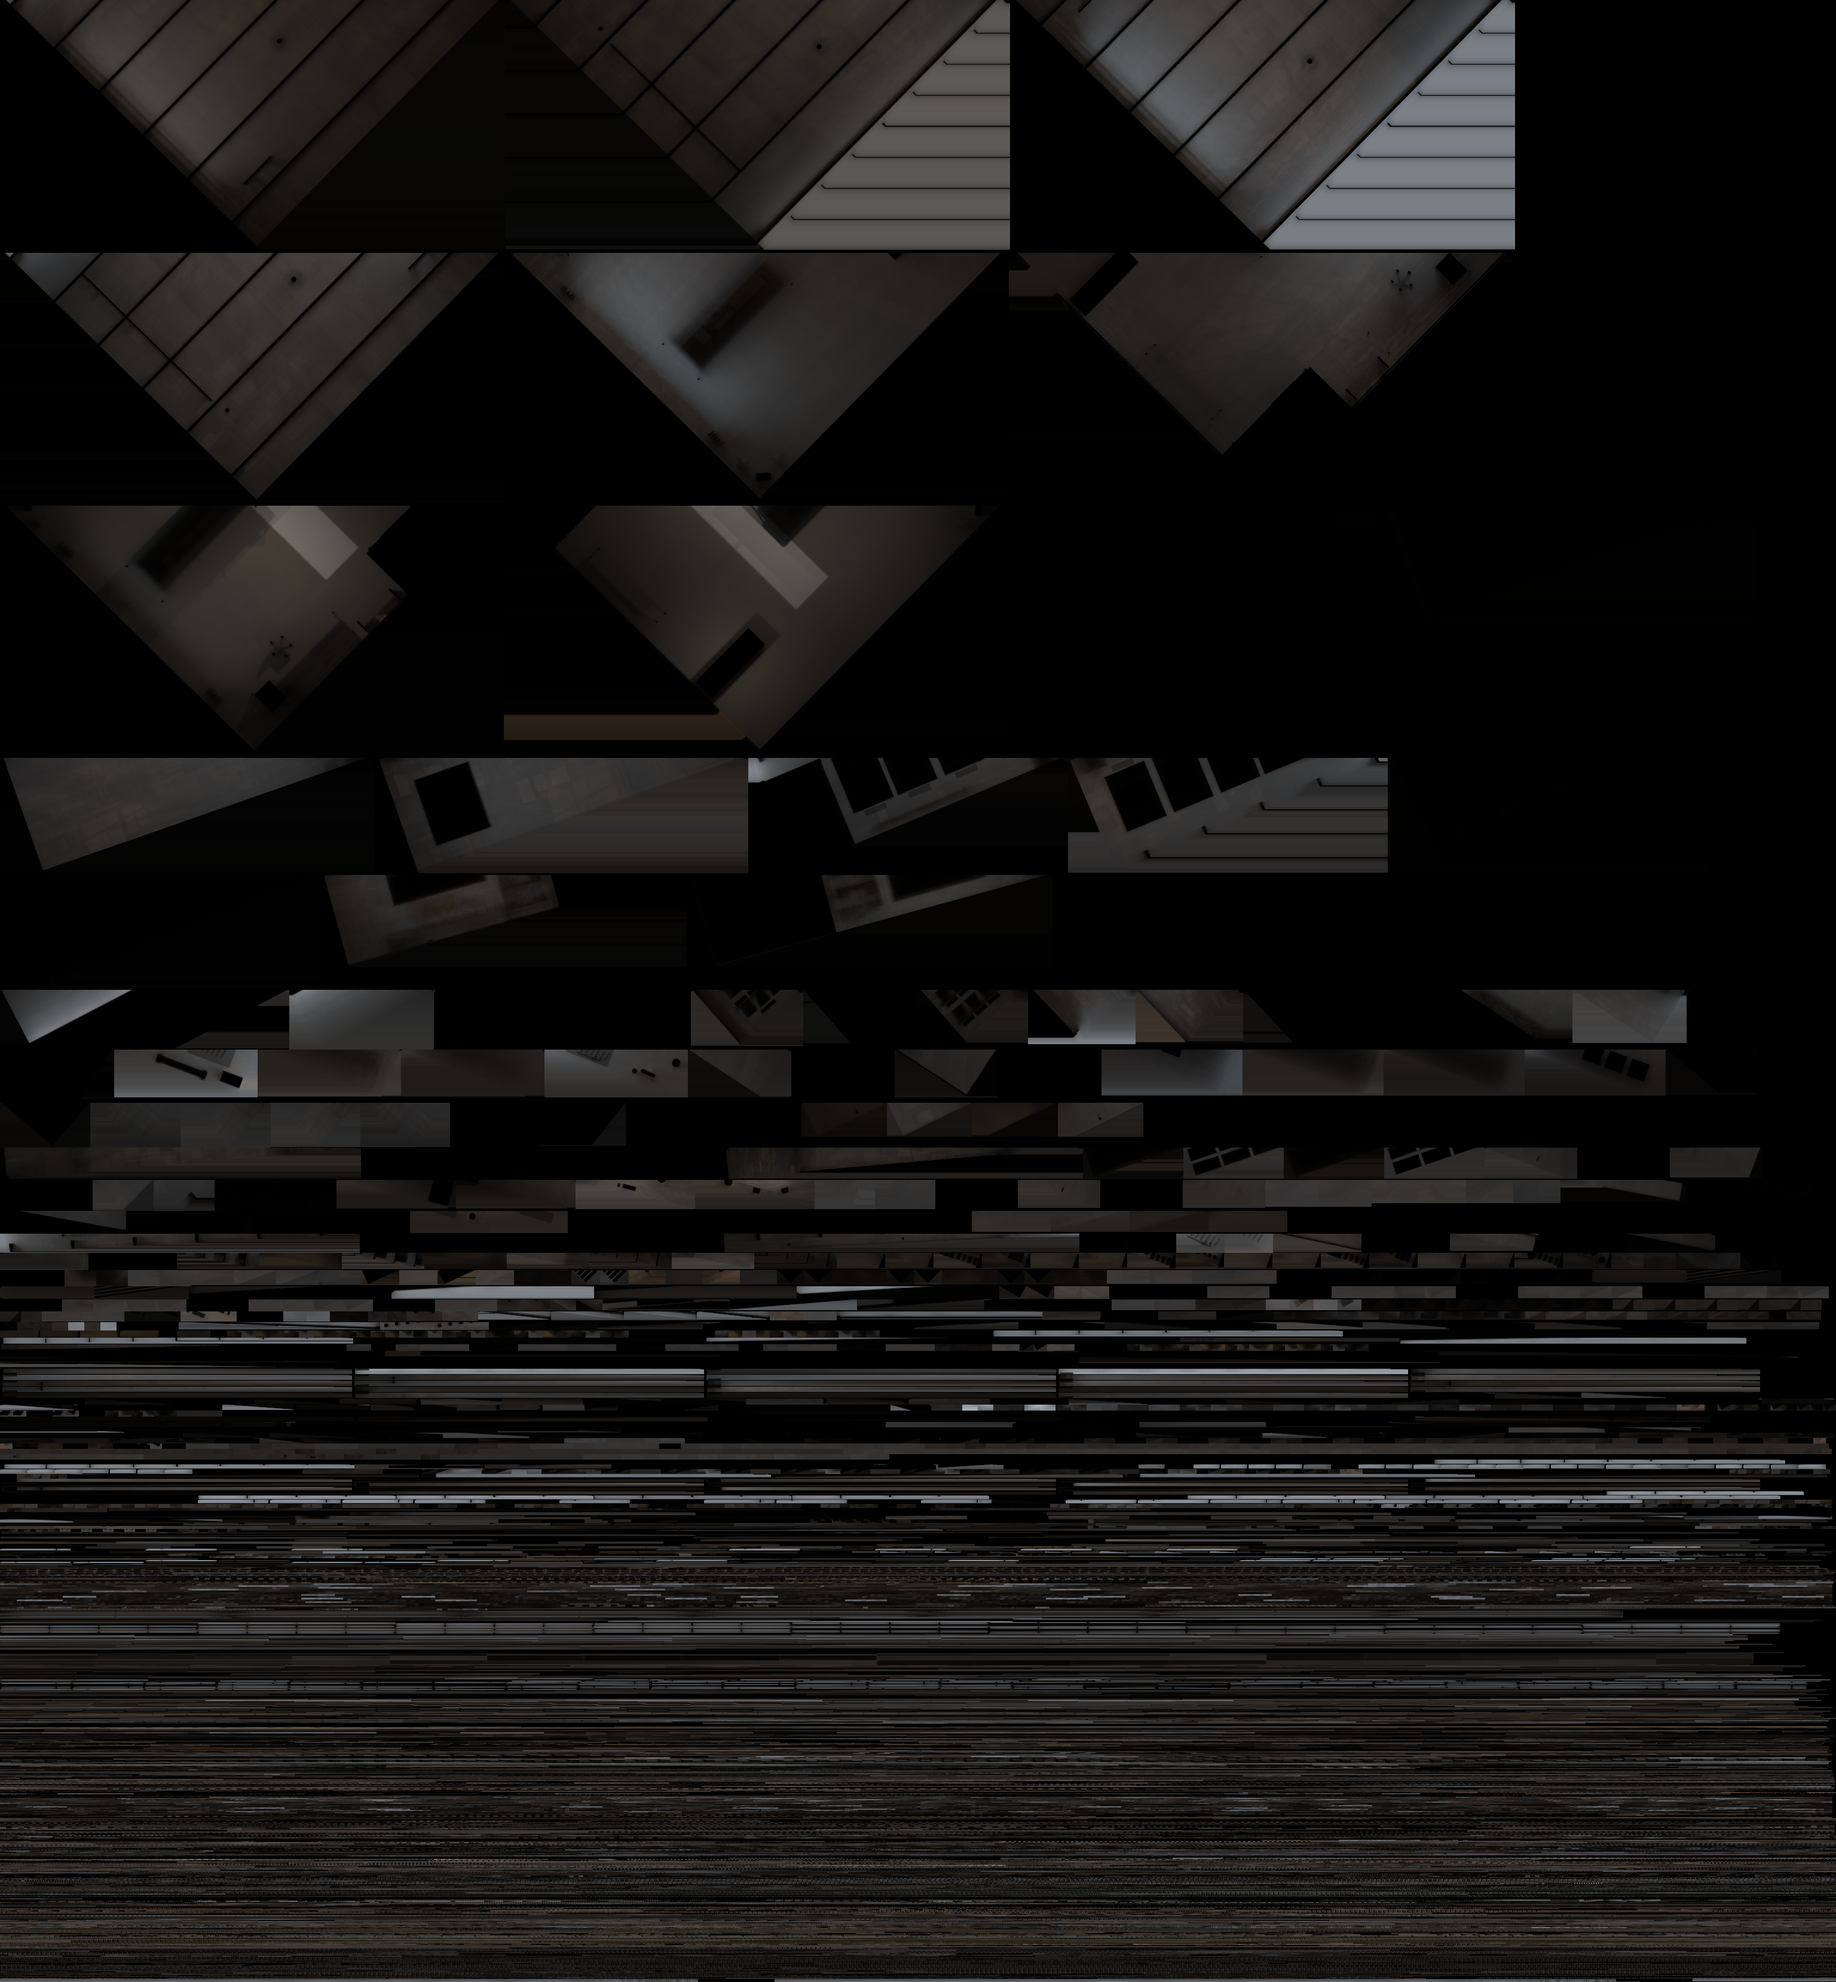
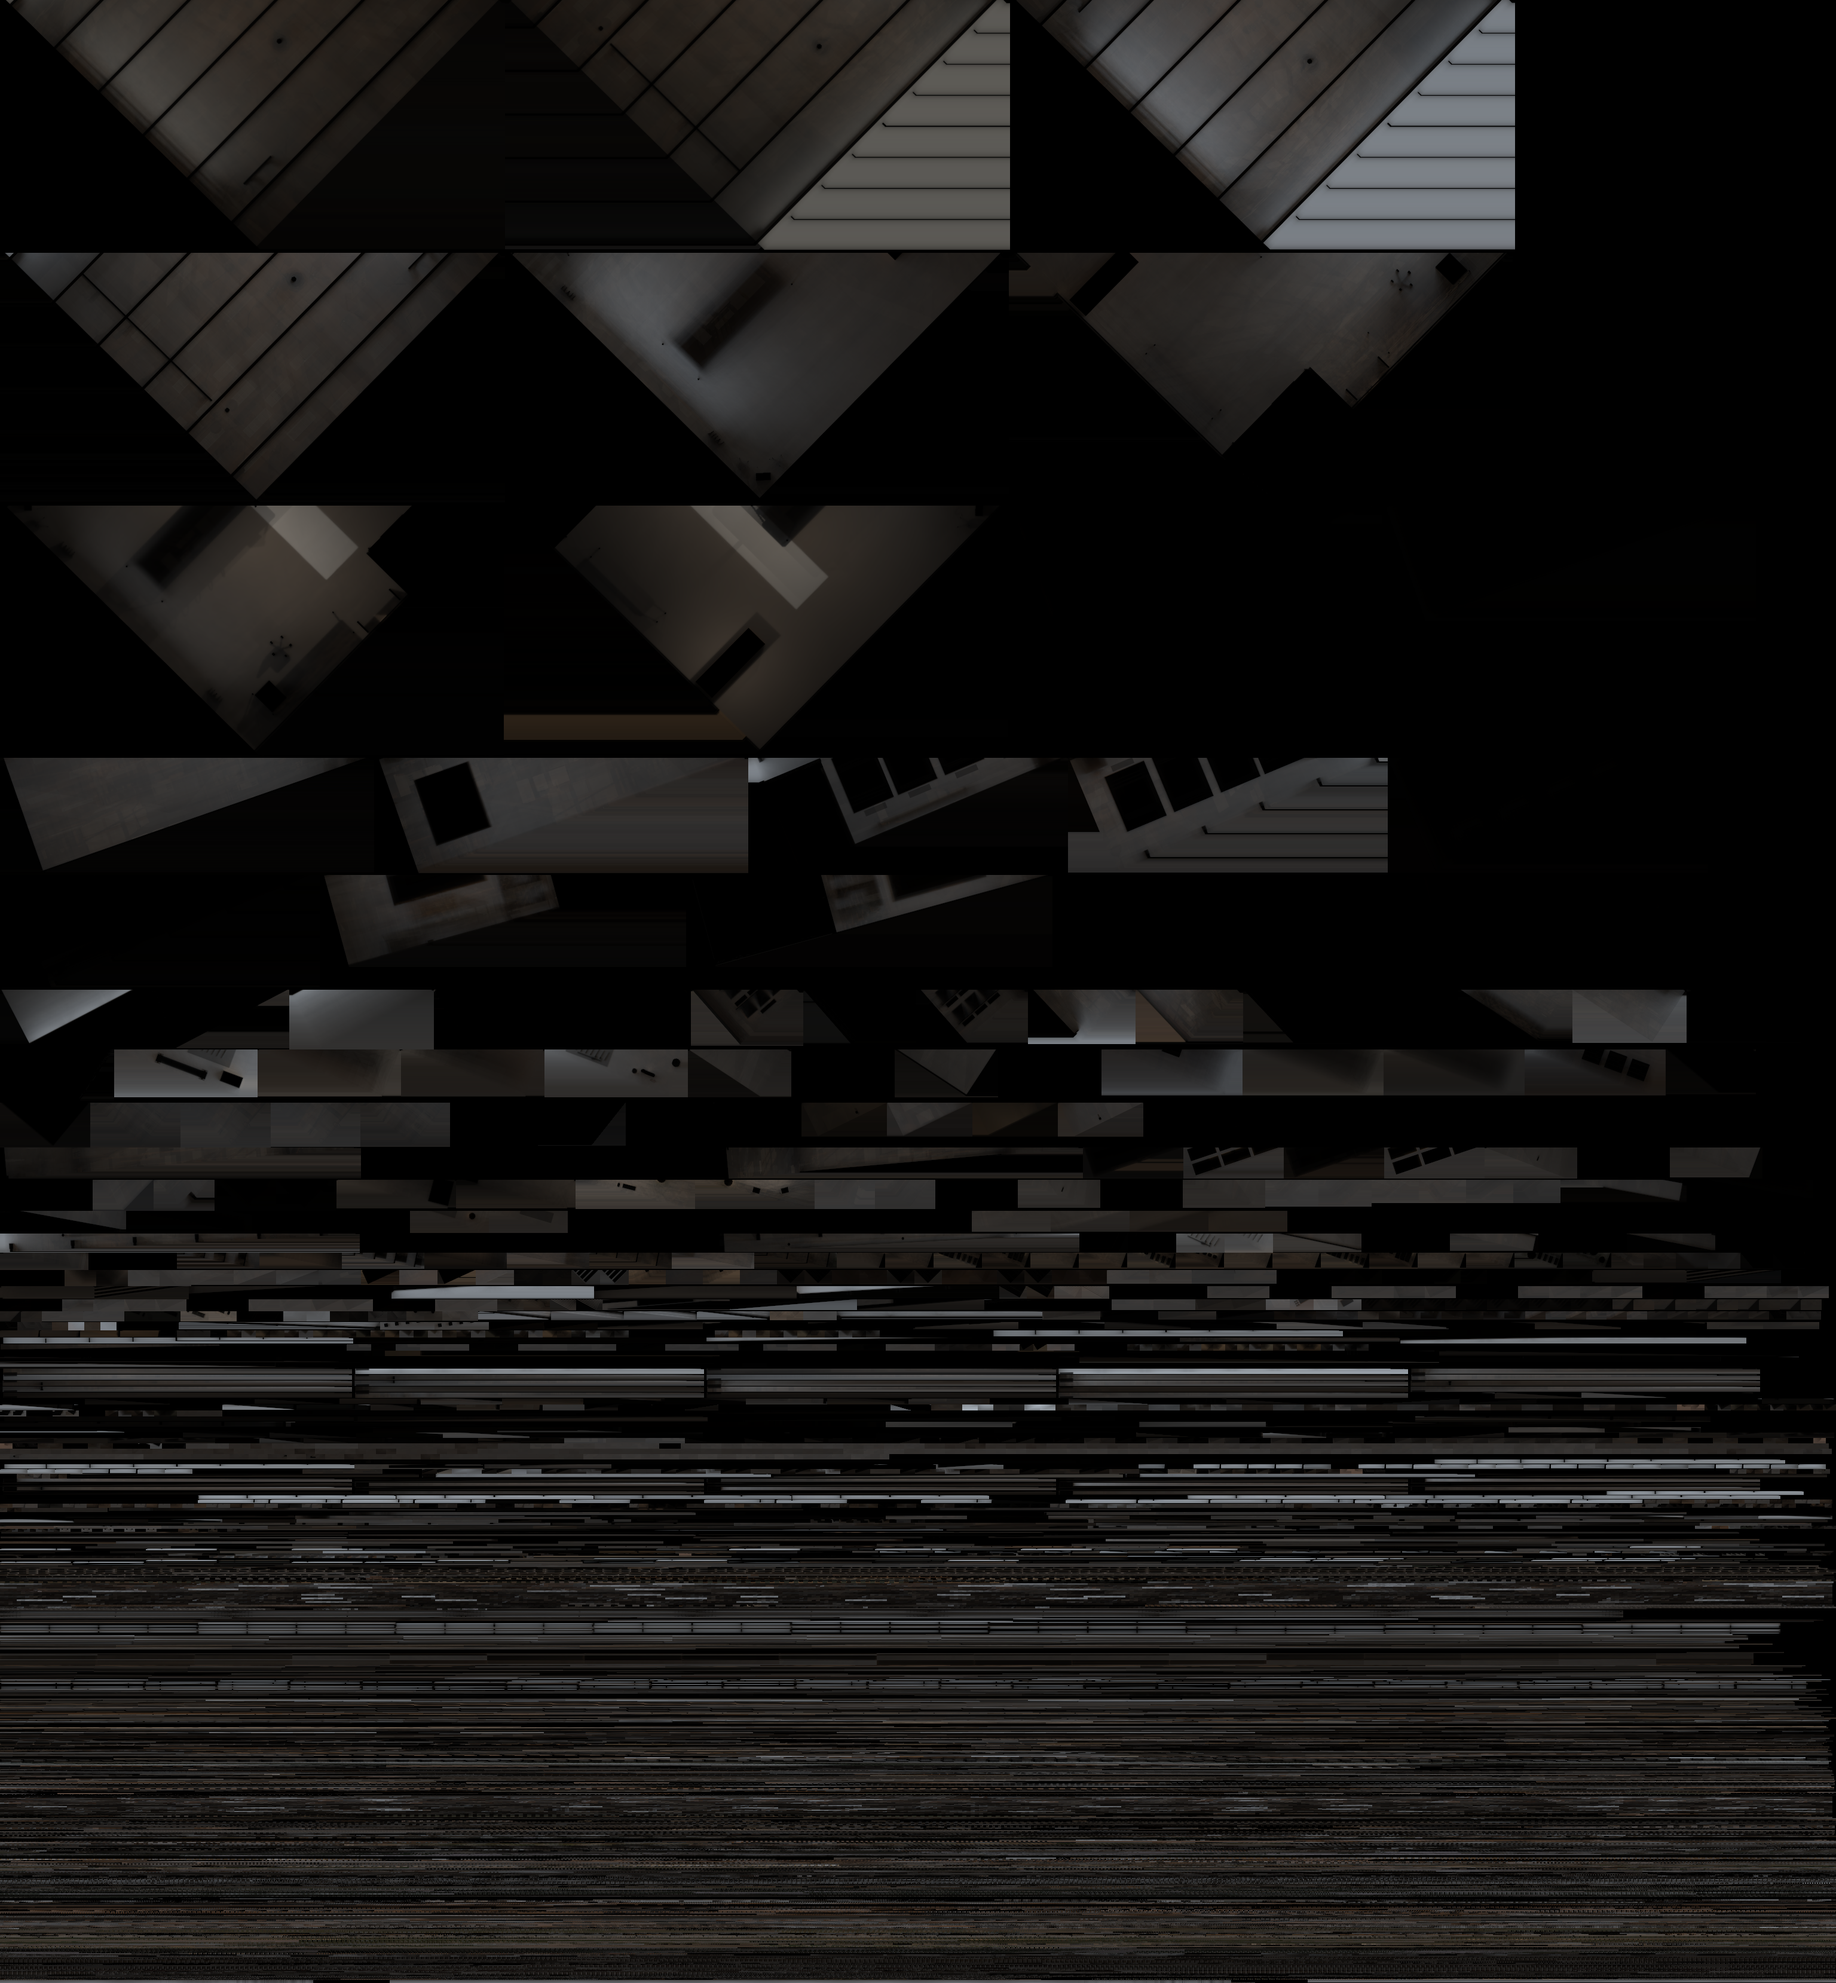
Route the guitar cable around its stand and refine its contact shadow

Changed region(s): [[0.0, 0.6523, 1.0, 1.0]]

diff --git a/room.js b/room.js
@@ -7,7 +7,7 @@ async function initializeStudioRoom(){
   const separateRadiance=gl.getParameter(gl.MAX_TEXTURE_IMAGE_UNITS)>8;
   const fineAtlas=gl.getParameter(gl.MAX_TEXTURE_SIZE)>=4096;
   const lightCoordinates=new Image();
-  if(fineAtlas)lightCoordinates.src='room-light-uv.png';
+  if(fineAtlas)lightCoordinates.src='room-light-uv.png?v=2';
   const coordinateReady=fineAtlas?lightCoordinates.decode().catch(()=>null):Promise.resolve();
   const vertex = `
   invariant gl_Position;
@@ -239,7 +239,10 @@ async function initializeStudioRoom(){
     return vec4((ink.rgb*ink.a+emission*light)/max(alpha,.0001),alpha);
   }
   float chartVisibility(vec2 uv, vec4 chart){
-    return texture2D(roomSurfaces,(chart.xy+.5+clamp(uv,0.,1.)*(chart.zw-1.))/1024.).r;
+    return texture2D(roomSurfaces,(chart.xy+.5+clamp(uv,0.,1.)*(chart.zw-1.))/vec2(2048.,1024.)).r;
+  }
+  vec4 surfaceMaterial(vec2 uv){
+    return texture2D(roomSurfaces,uv*vec2(.5,1.));
   }
   vec3 radianceSlice(vec2 xz,float tile){
     vec2 pixel=vec2(${fineAtlas||separateRadiance?'.5':'1024.5'},.5)+88.*vec2(mod(tile,11.),floor(tile/11.))+xz;
@@ -263,8 +266,17 @@ async function initializeStudioRoom(){
   }
   float roomVisibility(vec3 p,vec3 n){
     vec2 xz=(p.xz+vec2(5.9,5.))/vec2(11.8,12.);
-    if(mat>8.5 && mat<9.5 && n.y>.98)
-      return chartVisibility(xz,vec4(0.,0.,512.,512.));
+    if(mat>8.5 && mat<9.5 && n.y>.98){
+      float floorAO=chartVisibility(xz,vec4(0.,0.,512.,512.));
+      vec2 local=p.xz-vec2(3.90,5.65),span=vec2(1.55,1.10);
+      vec2 edge=min(local,span-local);
+      float inset=min(edge.x,edge.y);
+      if(inset<=0.)return floorAO;
+      vec2 size=vec2(1024.,768.);
+      vec2 pixel=vec2(1024.,0.)+clamp(local/span*size,vec2(.5),size-.5);
+      float contact=texture2D(roomSurfaces,pixel/vec2(2048.,1024.)).r;
+      return mix(floorAO,contact,smoothstep(0.,.045,inset));
+    }
     if(mat>1.5 && mat<2.5){
       if(n.y<-.98 && abs(p.y-4.10)<.008) return chartVisibility(xz,vec4(512.,0.,512.,512.));
       vec2 xy=vec2(xz.x,p.y/4.12),zy=vec2(xz.y,xy.y);
@@ -436,7 +448,7 @@ async function initializeStudioRoom(){
     vec2 surf=abs(n.y)>.60?pos.xz:(abs(n.x)>.60?pos.zy:pos.xy);
     float rough=.82;
     float visibility=roomVisibility(pos,n);
-    if(mat<.5)base*=.94+.12*texture2D(roomSurfaces,surf*4.8).b;
+    if(mat<.5)base*=.94+.12*surfaceMaterial(surf*4.8).b;
     if(mat>22.5 && mat<23.5){
       vec2 board=vec2(abs(tex.x),tex.y);
       float rings=board.x*2090.+3.3*noise(board*vec2(22.,2.))+.60*sin(9.*board.y);
@@ -470,8 +482,8 @@ async function initializeStudioRoom(){
     if(mat>.5 && mat<1.5){
       vec2 plank=abs(n.y)>.60?pos.xz:(abs(n.x)>.60?pos.zy:pos.xy);
       vec2 grainUV=plank*vec2(.56,1.18);
-      float grain=texture2D(roomSurfaces,grainUV).g;
-      float slope=grain-texture2D(roomSurfaces,grainUV+vec2(0.,.002)).g;
+      float grain=surfaceMaterial(grainUV).g;
+      float slope=grain-surfaceMaterial(grainUV+vec2(0.,.002)).g;
       base*=mix(vec3(.72,.65,.58),vec3(1.16,1.18,1.20),grain);
       rough=(n.y>.85?.43:.49)+.17*(.5-grain);
       vec3 across=abs(n.y)>.60?vec3(0.,0.,1.):vec3(0.,1.,0.);
@@ -495,7 +507,7 @@ async function initializeStudioRoom(){
         base*=1.-.17*exp(-gap*.28);
       }
     }else if((mat>1.5 && mat<2.5) || (mat>8.5 && mat<9.5)){
-      float mineral=texture2D(roomSurfaces,surf*.76).b;
+      float mineral=surfaceMaterial(surf*.76).b;
       base*=.91+.13*noise(surf*1.45)+.22*(mineral-.5);
       if(n.y>.85 && pos.y<.08) rough=.53+.16*mineral;
     }else if(mat>2.5 && mat<3.5){
@@ -527,7 +539,7 @@ async function initializeStudioRoom(){
     if(mat>4.5 && mat<6.5)base*=texture2D(atlas,tex).rgb;
     if(mat>8.5 && mat<9.5 && n.y>.85){
       vec2 jointUV=(pos.xz-vec2(-4.80,-4.77))/vec2(3.08,1.38);
-      base*=.30+.70*texture2D(roomSurfaces,jointUV).a;
+      base*=.30+.70*surfaceMaterial(jointUV).a;
       if(pos.x>3.7 && pos.z>5.05){
         vec2 d=pos.xz-vec2(5.18,6.40);
         vec2 local=vec2(dot(d,vec2(-.737,.675)),dot(d,vec2(-.675,-.737)));
@@ -2152,10 +2164,10 @@ async function initializeStudioRoom(){
   galleryImage.src='gallery-prints.jpg';
   tableImage.src='table-prints.jpg';
   darkroomImage.src='darkroom-prints.jpg';
-  surfaceSheet.src='room-surfaces.webp';
+  surfaceSheet.src='room-surfaces.webp?v=2';
   roomRadiance.src='room-irradiance.webp';
-  if(fineAtlas)surfaceRadiance.src='room-light-2cm.webp';
-  roomContacts.src='room-contacts.png';
+  if(fineAtlas)surfaceRadiance.src='room-light-2cm.webp?v=2';
+  roomContacts.src='room-contacts.png?v=2';
   benchProbe.src='workbench-radiance.jpg';
   cameraFinish.src='rangefinder-finish.jpg';
   suedePile.src='suede-pile.jpg';

diff --git a/guitars.js b/guitars.js
@@ -220,7 +220,7 @@ function buildGuitarCorner({vertices,face,tube,softBox,smoothQuad,rgb}){
     }
     bar([0,.01,-.22],[0,.19,-.055],.010,'494942');
     bar([0,.12,-.052],[0,.54,-.134],.010,'403f3b');
-    return {...spec,...axes,strings,id,head};
+    return {...spec,...axes,stand,strings,id,head};
   }
   const guitars=specs.map(instrument);
   // Compact combo with a recessed baffle, woven grille and a separate control fascia.
@@ -252,11 +252,16 @@ function buildGuitarCorner({vertices,face,tube,softBox,smoothQuad,rgb}){
     const p=amp.point(vertices.slice(k,k+3)),n=amp.vector(vertices.slice(k+3,k+6));
     for(let i=0;i<3;i++){vertices[k+i]=p[i];vertices[k+3+i]=n[i];}
   }
-  const jack=amp.point([-.189,.403,.146]),socket=guitars[1].point([.151,.116,.002]);
+  const {point:body,stand}=guitars[1];
+  const jack=amp.point([-.189,.403,.146]),socket=body([.158,.116,.002]);
+  const floorLead=(x,z)=>stand.point([x,.004,z]);
+  // Bring the slack around the front feet and lift it on the jack side.
+  // Floor points use the upright stand frame, the plug follows the tilted body.
   const cable=[jack,amp.point([-.189,.403,.181]),amp.point([-.190,.357,.195]),
-    [5.12,.058,6.06],[5.08,.009,6.02],[4.90,.006,5.93],[4.69,.006,5.88],[4.53,.006,5.91],
-    [4.48,.006,5.97],[4.52,.006,6.01],[4.64,.006,6.05],[4.67,.013,6.11],
-    guitars[1].point([.179,.061,.002]),guitars[1].point([.176,.107,.002]),socket];
+    [5.12,.058,6.06],[5.08,.009,6.02],[4.90,.004,5.93],floorLead(-.40,.35),
+    floorLead(-.24,.45),floorLead(-.08,.45),floorLead(-.025,.32),floorLead(.135,.25),
+    floorLead(.255,.215),floorLead(.275,.125),floorLead(.25,.042),stand.point([.224,.021,.014]),
+    body([.215,.034,.002]),body([.210,.095,.002]),body([.203,.116,.002]),body([.187,.116,.002]),socket];
   const midpoint=(p,q)=>p.map((v,k)=>(v+q[k])*.5);
   rod(cable[0],cable[1],.006,chrome,3);
   let prev=cable[1];

diff --git a/index.html b/index.html
@@ -55,7 +55,7 @@
   <script src="window-focus.js?v=4"></script>
   <script src="window-glass.js?v=3"></script>
   <script src="rangefinder.js?v=3"></script>
-  <script src="guitars.js"></script>
-  <script src="room.js?v=16"></script>
+  <script src="guitars.js?v=2"></script>
+  <script src="room.js?v=17"></script>
 </body>
 </html>
